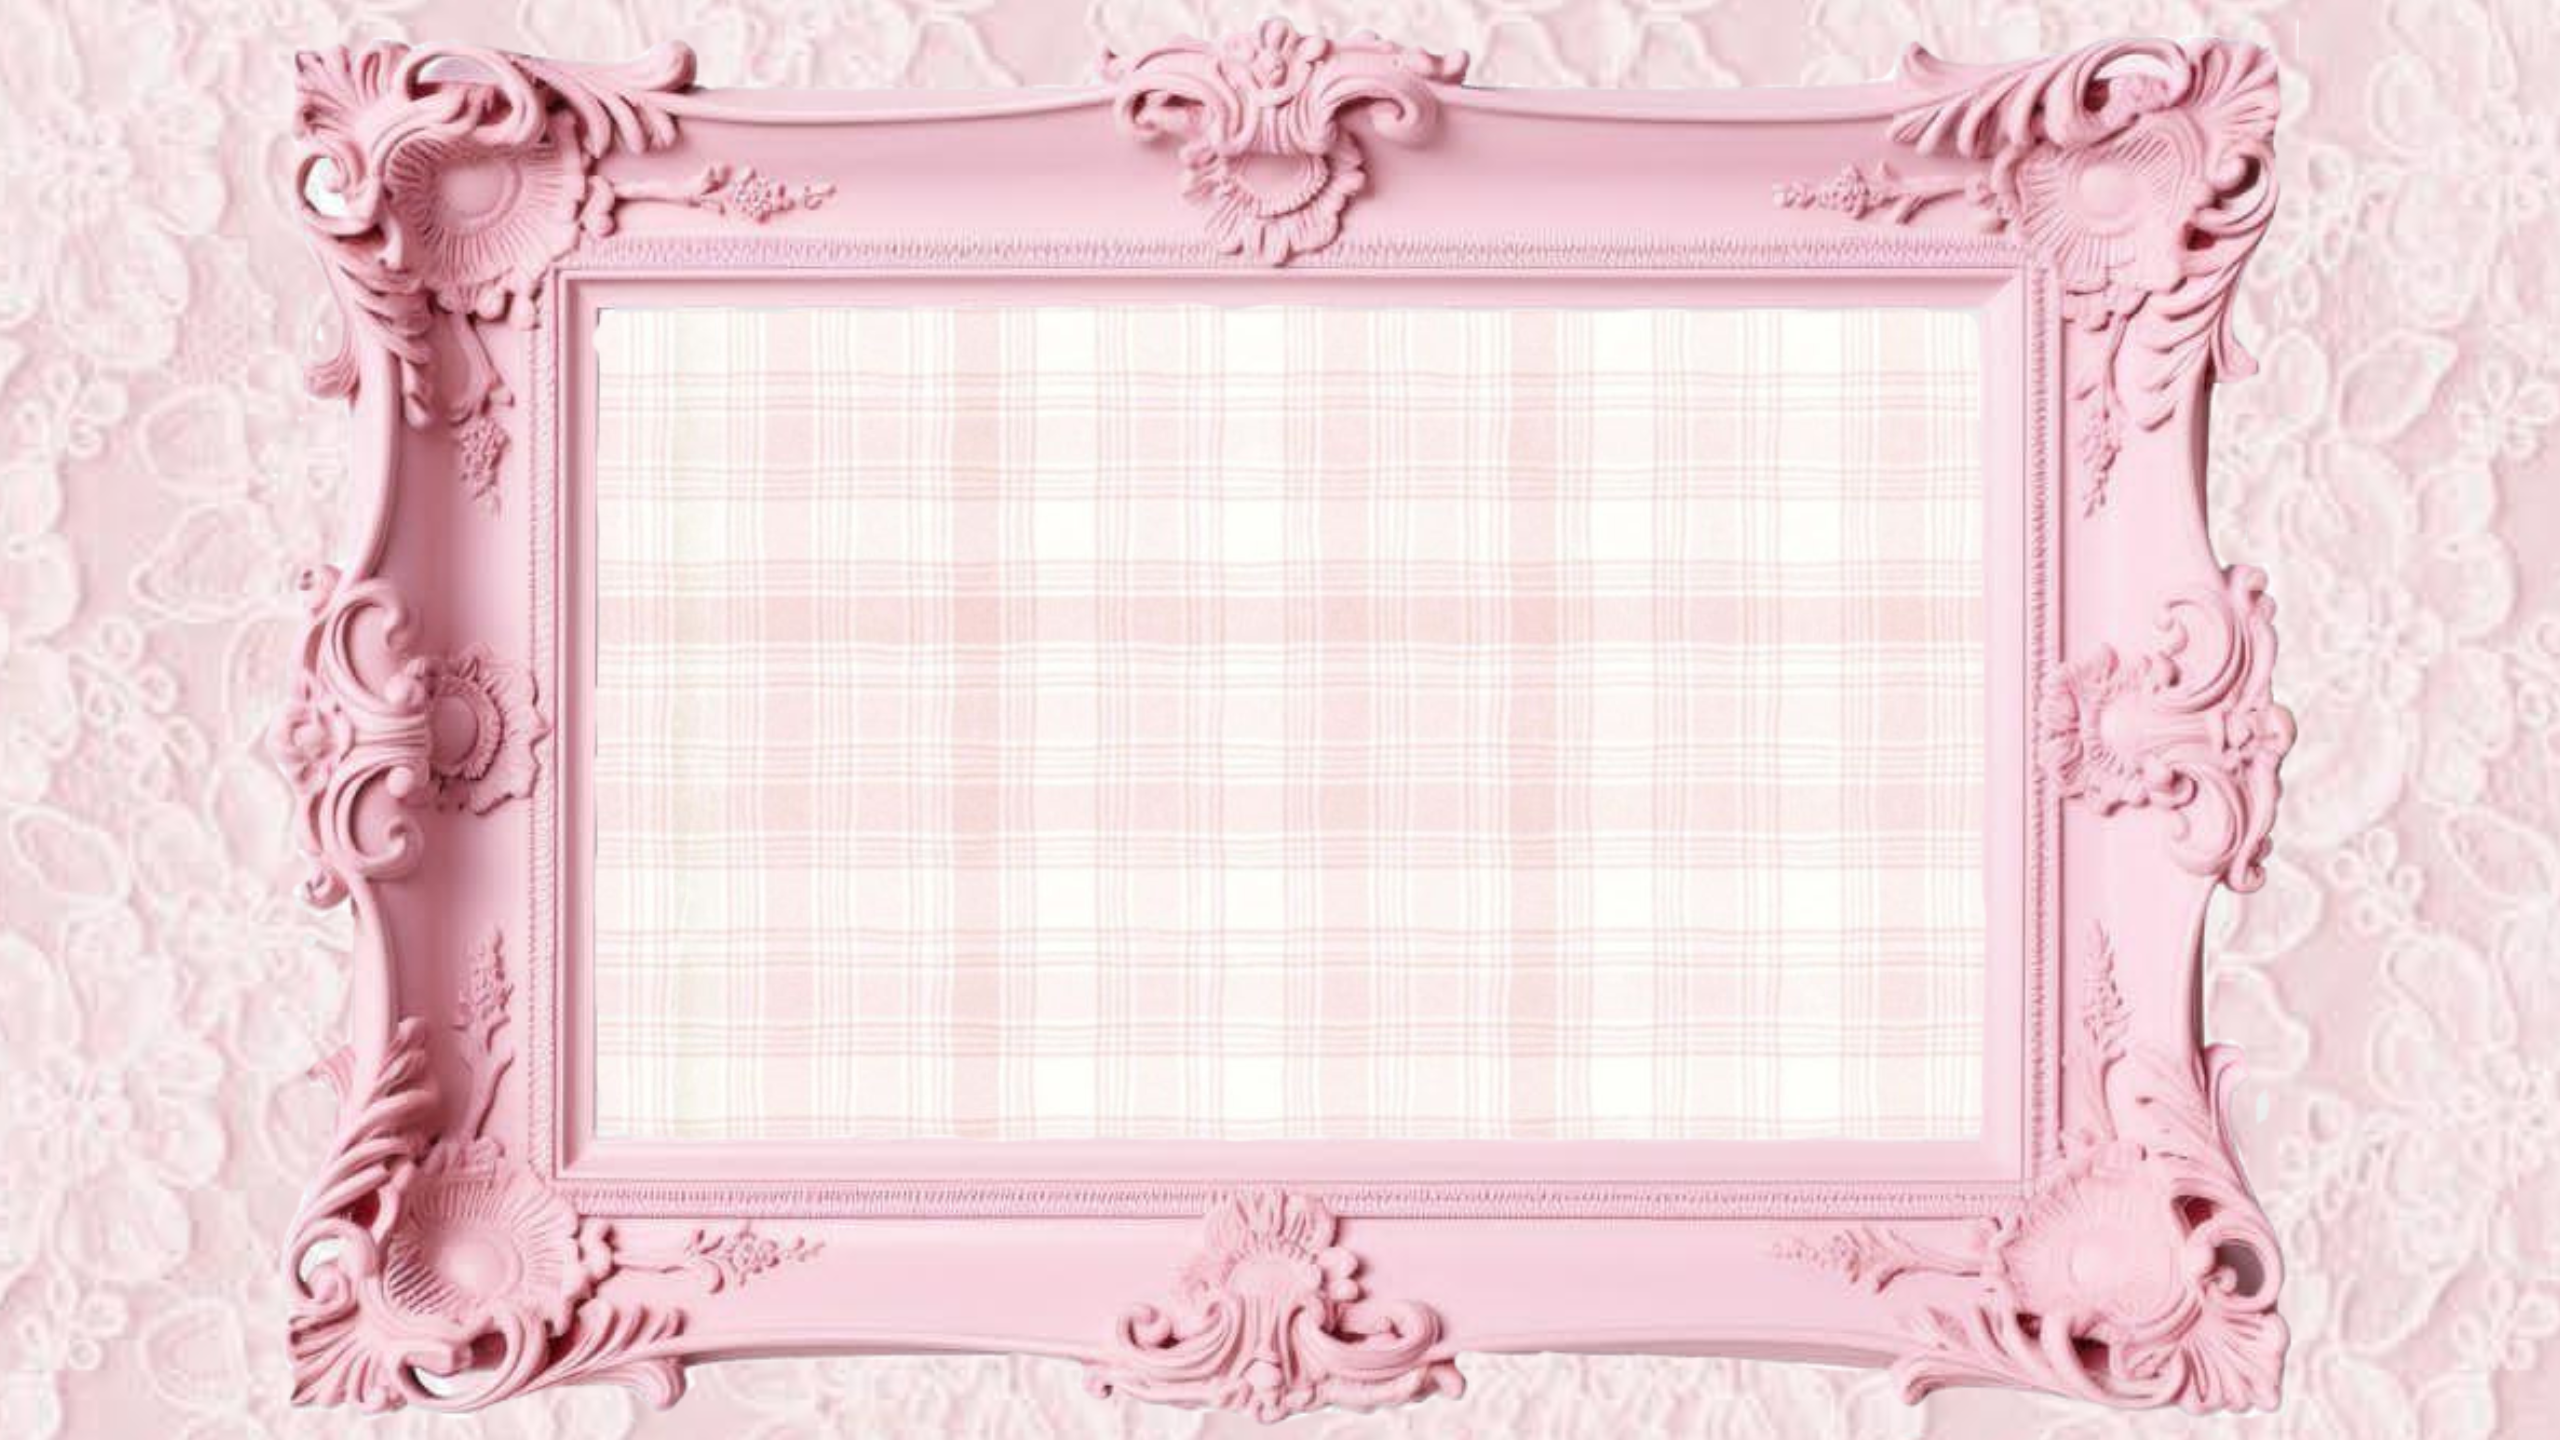
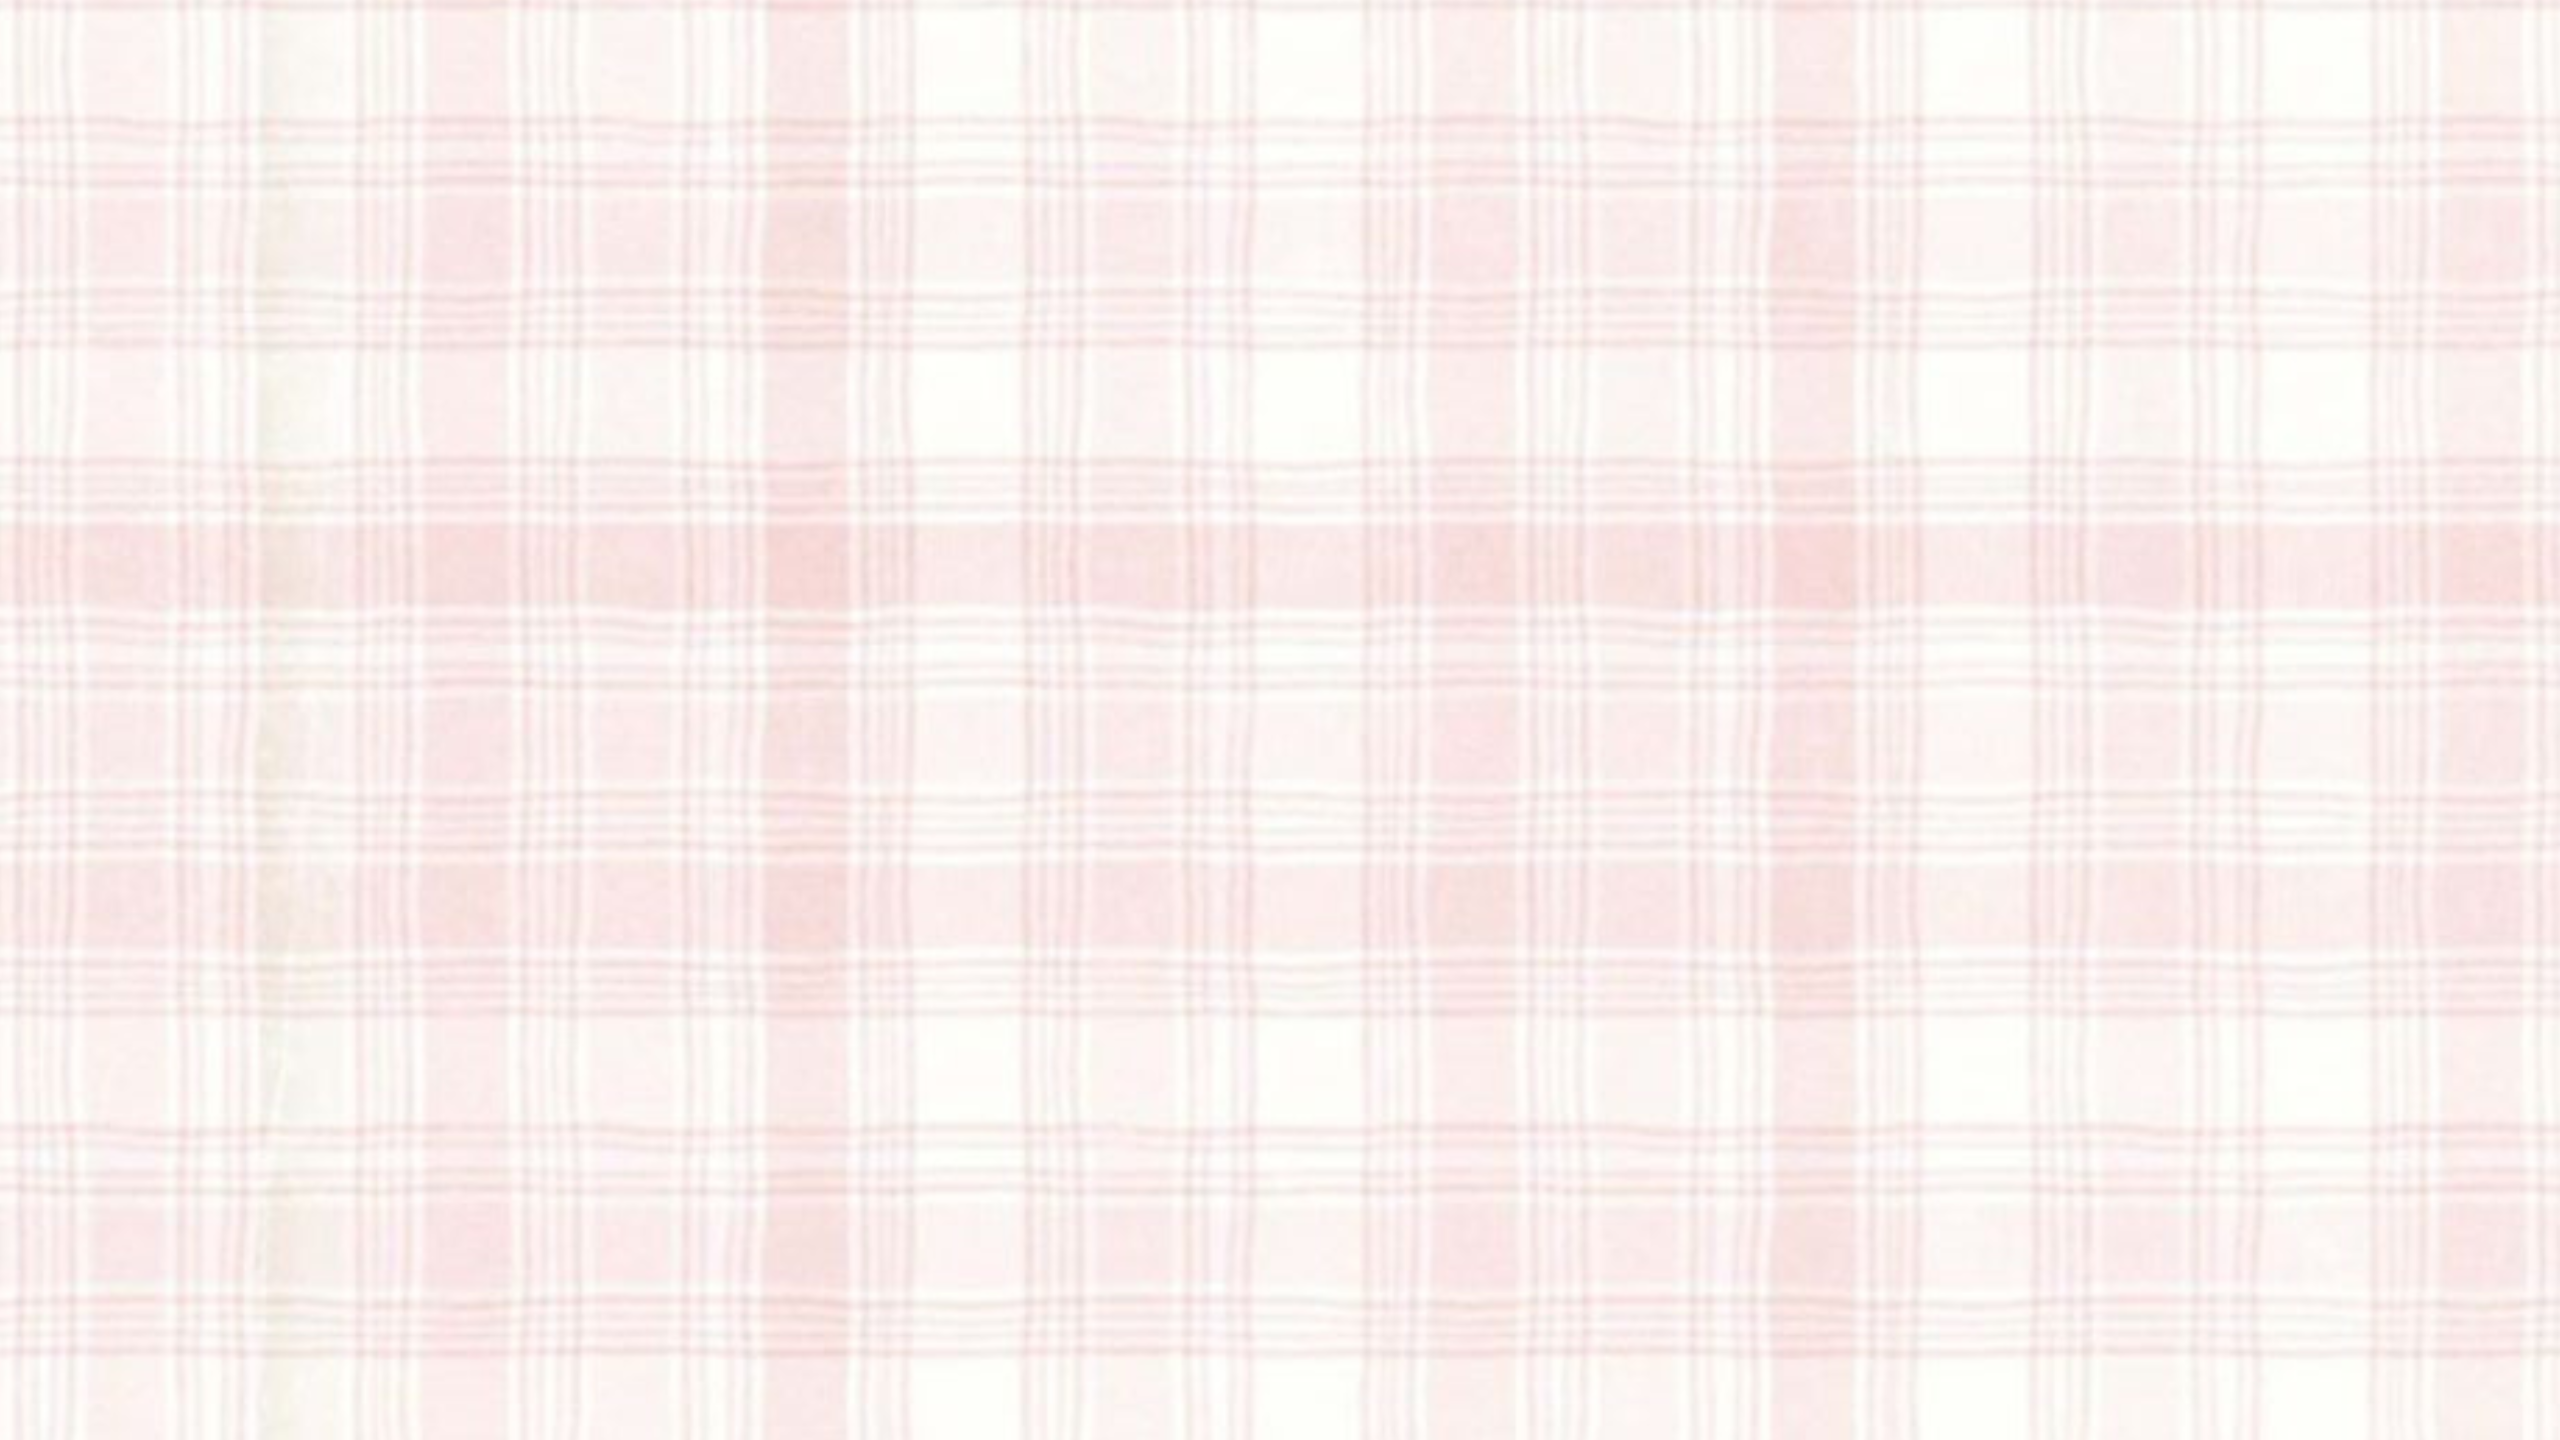
added page5 pdf

diff --git a/style.css b/style.css
@@ -22,6 +22,7 @@ img {
 .page3,
 .page4,
 .page5,
+.page6,
 .last-Page-Email {
     position: relative;
     width: 100%;
@@ -281,7 +282,7 @@ img {
     grid-template-rows: repeat(2, 1fr);
     gap: 75px;
 
-    width: 40%;
+    width: 50%;
 }
 
 .covers-grid img {
@@ -299,7 +300,7 @@ img {
 
 @media (max-width: 768px) {
     .covers-grid {
-        width: 35%;
+        width: 45%;
         gap: 10px;
     }
 }
@@ -387,4 +388,92 @@ img {
     .project-panel h2 {
         font-size: 1.4rem;
     }
+}
+
+.book-viewer {
+    position: absolute;
+    top: 50%;
+    left: 50%;
+    transform: translate(-50%, -50%);
+    display: flex;
+    align-items: center;
+    justify-content: center;
+    gap: 20px;
+    z-index: 10;
+    width: 90%;
+}
+
+.book-canvas-wrapper {
+    box-shadow: -8px 0 20px rgba(0,0,0,0.3), 8px 0 20px rgba(0,0,0,0.3);
+    border-radius: 4px;
+    overflow: hidden;
+}
+
+#bookCanvas {
+    display: block;
+    max-width: 65vw;
+    max-height: 80vh;
+}
+
+.book-arrow {
+    background: rgba(247, 227, 236, 0.85);
+    border: 2px solid #c77d9c;
+    color: #c77d9c;
+    font-size: 3rem;
+    width: 50px;
+    height: 50px;
+    border-radius: 50%;
+    cursor: pointer;
+    transition: 0.3s;
+    display: flex;
+    align-items: center;
+    justify-content: center;
+    line-height: 1;
+}
+
+.book-arrow:hover {
+    background: #c77d9c;
+    color: white;
+    transform: scale(1.1);
+}
+
+.book-page-counter {
+    position: absolute;
+    bottom: -30px;
+    left: 50%;
+    transform: translateX(-50%);
+    color: #c77d9c;
+    font-family: "Playfair Display", serif;
+    font-size: 0.95rem;
+}
+
+@media (max-width: 768px) {
+    #bookCanvas {
+        max-width: 75vw;
+        max-height: 40vh;  /* από 28vh */
+    }
+
+    .book-arrow {
+        font-size: 2rem;
+        width: 36px;
+        height: 36px;
+    }
+    .book-page-counter {
+        display: none;
+    }
+}
+.book-loading {
+    display: flex;
+    flex-direction: column;
+    align-items: center;
+    justify-content: center;
+    color: #c77d9c;
+    font-family: "Playfair Display", serif;
+    gap: 10px;
+    min-width: 200px;
+    min-height: 150px;
+}
+
+.book-loading i {
+    font-size: 2rem;
 }

diff --git a/index.js b/index.js
@@ -1,3 +1,4 @@
+// ========== PROJECT PANELS ==========
 const coverBtns = document.querySelectorAll('.cover-btn');
 const panels = document.querySelectorAll('.project-panel');
 
@@ -17,3 +18,72 @@ document.querySelectorAll('.close-panel').forEach(btn => {
         btn.closest('.project-panel').classList.remove('active');
     });
 });
+
+
+// ========== PDF VIEWER ==========
+pdfjsLib.GlobalWorkerOptions.workerSrc =
+    'https://cdnjs.cloudflare.com/ajax/libs/pdf.js/3.11.174/pdf.worker.min.js';
+
+let pdfDoc = null;
+let currentPage = 1;
+let isAnimating = false;
+const canvas = document.getElementById('bookCanvas');
+const ctx = canvas.getContext('2d');
+const loading = document.getElementById('bookLoading');
+
+async function loadPDF() {
+    loading.style.display = 'flex';
+    canvas.style.display = 'none';
+
+    pdfDoc = await pdfjsLib.getDocument('img/page5_pdf.pdf').promise;
+
+    renderPage(currentPage);
+}
+
+async function renderPage(num, direction = 'right') {
+    if (isAnimating) return;
+    isAnimating = true;
+
+    loading.style.display = 'flex';
+    canvas.style.display = 'none';
+
+    const page = await pdfDoc.getPage(num);
+    const viewport = page.getViewport({ scale: 1.5 });
+    canvas.width = viewport.width;
+    canvas.height = viewport.height;
+
+    await page.render({ canvasContext: ctx, viewport }).promise;
+
+    const slideIn = direction === 'right' ? '100%' : '-100%';
+
+    loading.style.display = 'none';
+    canvas.style.transition = 'none';
+    canvas.style.transform = `translateX(${slideIn})`;
+    canvas.style.opacity = '0';
+    canvas.style.display = 'block';
+
+    setTimeout(() => {
+        canvas.style.transition = 'transform 0.4s ease, opacity 0.4s ease';
+        canvas.style.transform = 'translateX(0)';
+        canvas.style.opacity = '1';
+        isAnimating = false;
+    }, 20);
+
+    document.getElementById('currentPage').textContent = num;
+}
+
+document.getElementById('prevPage').addEventListener('click', () => {
+    if (currentPage > 1 && !isAnimating) {
+        currentPage--;
+        renderPage(currentPage, 'left');
+    }
+});
+
+document.getElementById('nextPage').addEventListener('click', () => {
+    if (currentPage < pdfDoc.numPages && !isAnimating) {
+        currentPage++;
+        renderPage(currentPage, 'right');
+    }
+});
+
+loadPDF();

diff --git a/index.html b/index.html
@@ -47,12 +47,12 @@
     <section class="page4">
         <img src="img/back4.png" alt="Cover">
         <div class="covers-grid">
-            <img src="img/covers/cover1.jpg" alt="Cover 1" class="cover-btn" data-project="project1">
-            <img src="img/covers/cover2.png" alt="Cover 2" class="cover-btn" data-project="project2">
-            <img src="img/covers/cover3.png" alt="Cover 3" class="cover-btn" data-project="project3">
-            <img src="img/covers/cover4.png" alt="Cover 4" class="cover-btn" data-project="project4">
-            <img src="img/covers/cover5.png" alt="Cover 5" class="cover-btn" data-project="project5">
-            <img src="img/covers/cover6.png" alt="Cover 6" class="cover-btn" data-project="project6">
+            <img src="img/covers/cover1.jpg" alt="Cover 1" class="cover-btn" data-project="project1" title="Once upon a time...">
+            <img src="img/covers/cover2.png" alt="Cover 2" class="cover-btn" data-project="project2" title="Business casual office wear">
+            <img src="img/covers/cover3.png" alt="Cover 3" class="cover-btn" data-project="project3" title="Architecture to Fashion">
+            <img src="img/covers/cover4.png" alt="Cover 4" class="cover-btn" data-project="project4" title="Circus">
+            <img src="img/covers/cover5.png" alt="Cover 5" class="cover-btn" data-project="project5" title="Modern looks Greek roots">
+            <img src="img/covers/cover6.png" alt="Cover 6" class="cover-btn" data-project="project6" title="Rococo">
         </div>
     </section>
 
@@ -99,9 +99,26 @@
         <p>Περιγραφή εργασίας 6...</p>
     </div>
 
-
     <section class="page5">
         <img src="img/back5.png" alt="Cover">
+        <div class="book-viewer">
+            <button class="book-arrow left-arrow" id="prevPage">&#8249;</button>
+            <div class="book-canvas-wrapper">
+                <canvas id="bookCanvas"></canvas>
+                <div class="book-loading" id="bookLoading">
+                    <i class="fas fa-spinner fa-spin"></i>
+                    <p>Loading...</p>
+                </div>
+            </div>
+            <button class="book-arrow right-arrow" id="nextPage">&#8250;</button>
+            <div class="book-page-counter">
+                <span id="currentPage">1</span> / <span id="totalPages">23</span>
+            </div>
+        </div>
+    </section>
+
+    <section class="page6">
+        <img src="img/back6.png" alt="Cover">
     </section>
 
 
@@ -118,7 +135,7 @@
                 </label>
 
                 <label>
-                    <textarea name="message" placeholder="Your Message" rows="5" required></textarea>
+                    <textarea name="message" placeholder="Your Message" rows="5" required style="resize: none;"></textarea>
                 </label>
                 <button type="submit">E-mail me now!</button>
             </form>
@@ -140,5 +157,7 @@
             </fieldset>
         </div>
     </section>
+    <script src="https://cdnjs.cloudflare.com/ajax/libs/pdf.js/3.11.174/pdf.min.js"></script>
+    <script src="index.js"></script>
 </body>
 </html>